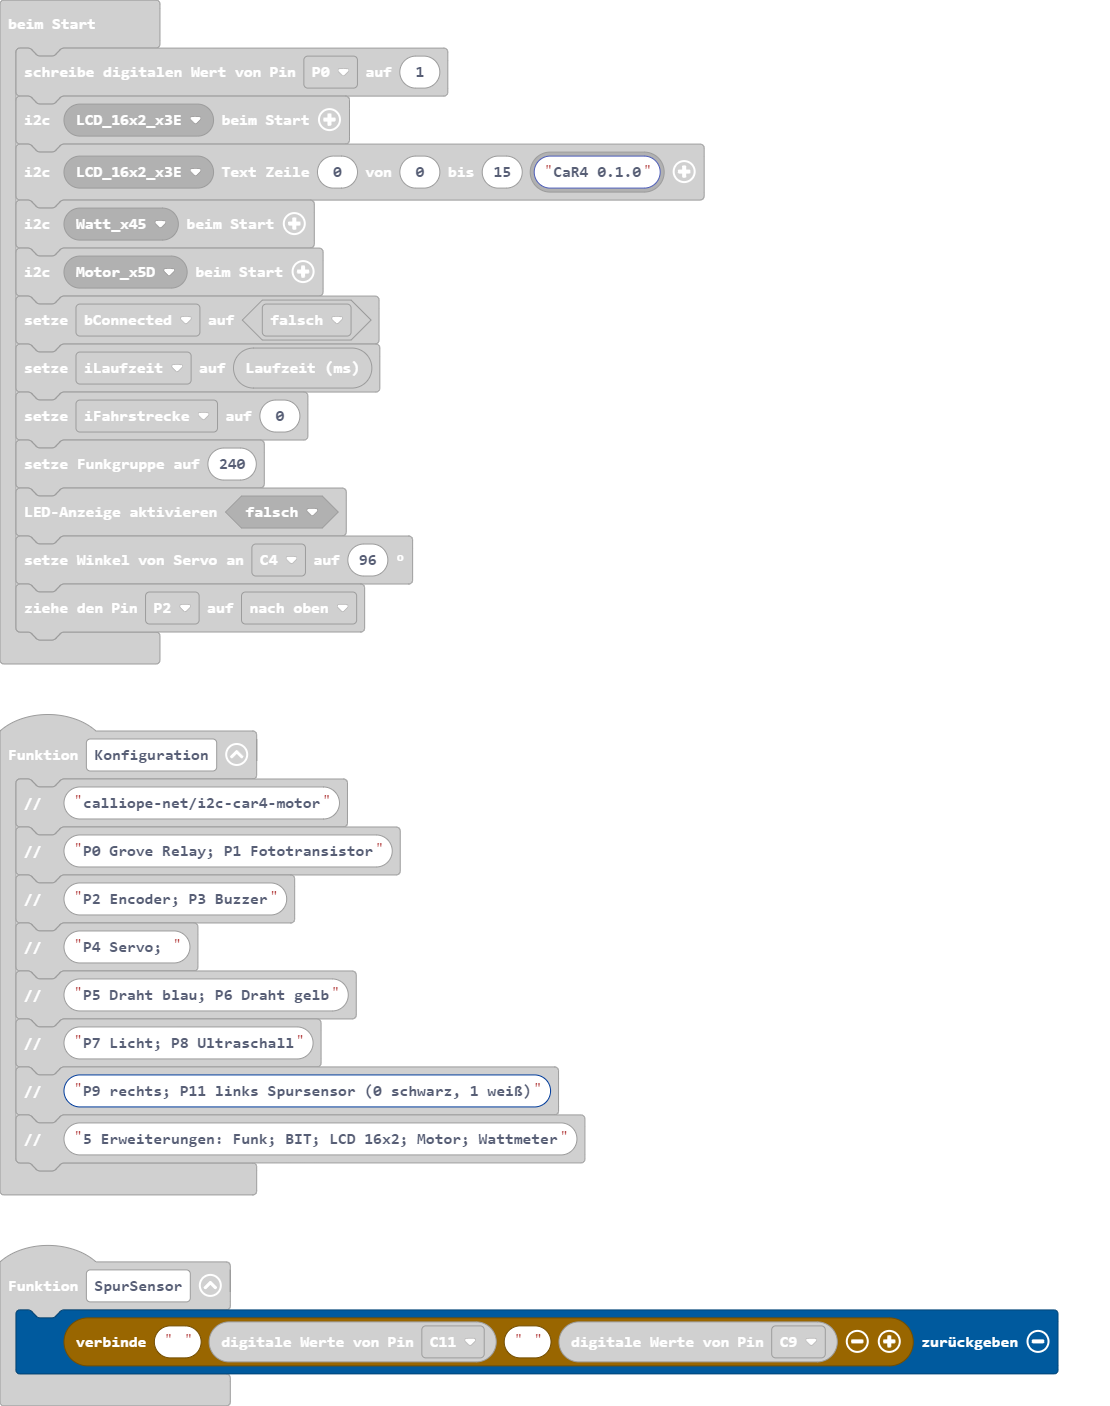
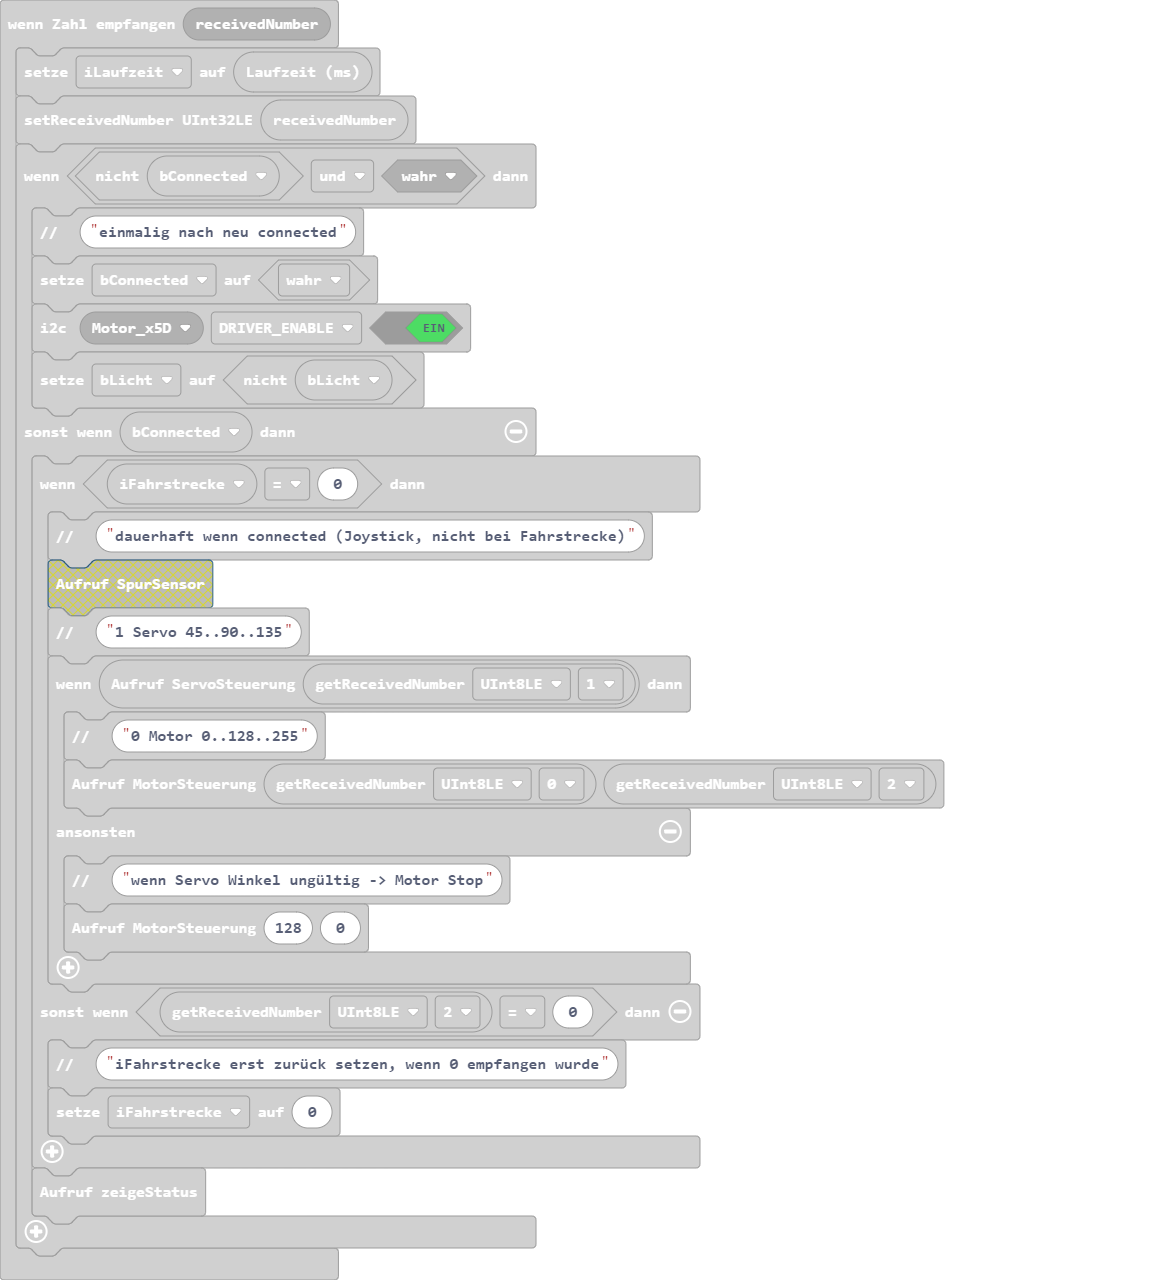
Aktualisiere main.blocks, main.ts

diff --git a/main.ts b/main.ts
@@ -9,7 +9,6 @@ radio.onReceivedNumber(function (receivedNumber) {
     } else if (bConnected) {
         if (iFahrstrecke == 0) {
             bit.comment("dauerhaft wenn connected (Joystick, nicht bei Fahrstrecke)")
-            SpurSensor()
             bit.comment("1 Servo 45..90..135")
             if (ServoSteuerung(qwiicmotor.getReceivedNumber(NumberFormat.UInt8LE, qwiicmotor.eOffset.z1))) {
                 bit.comment("0 Motor 0..128..255")
